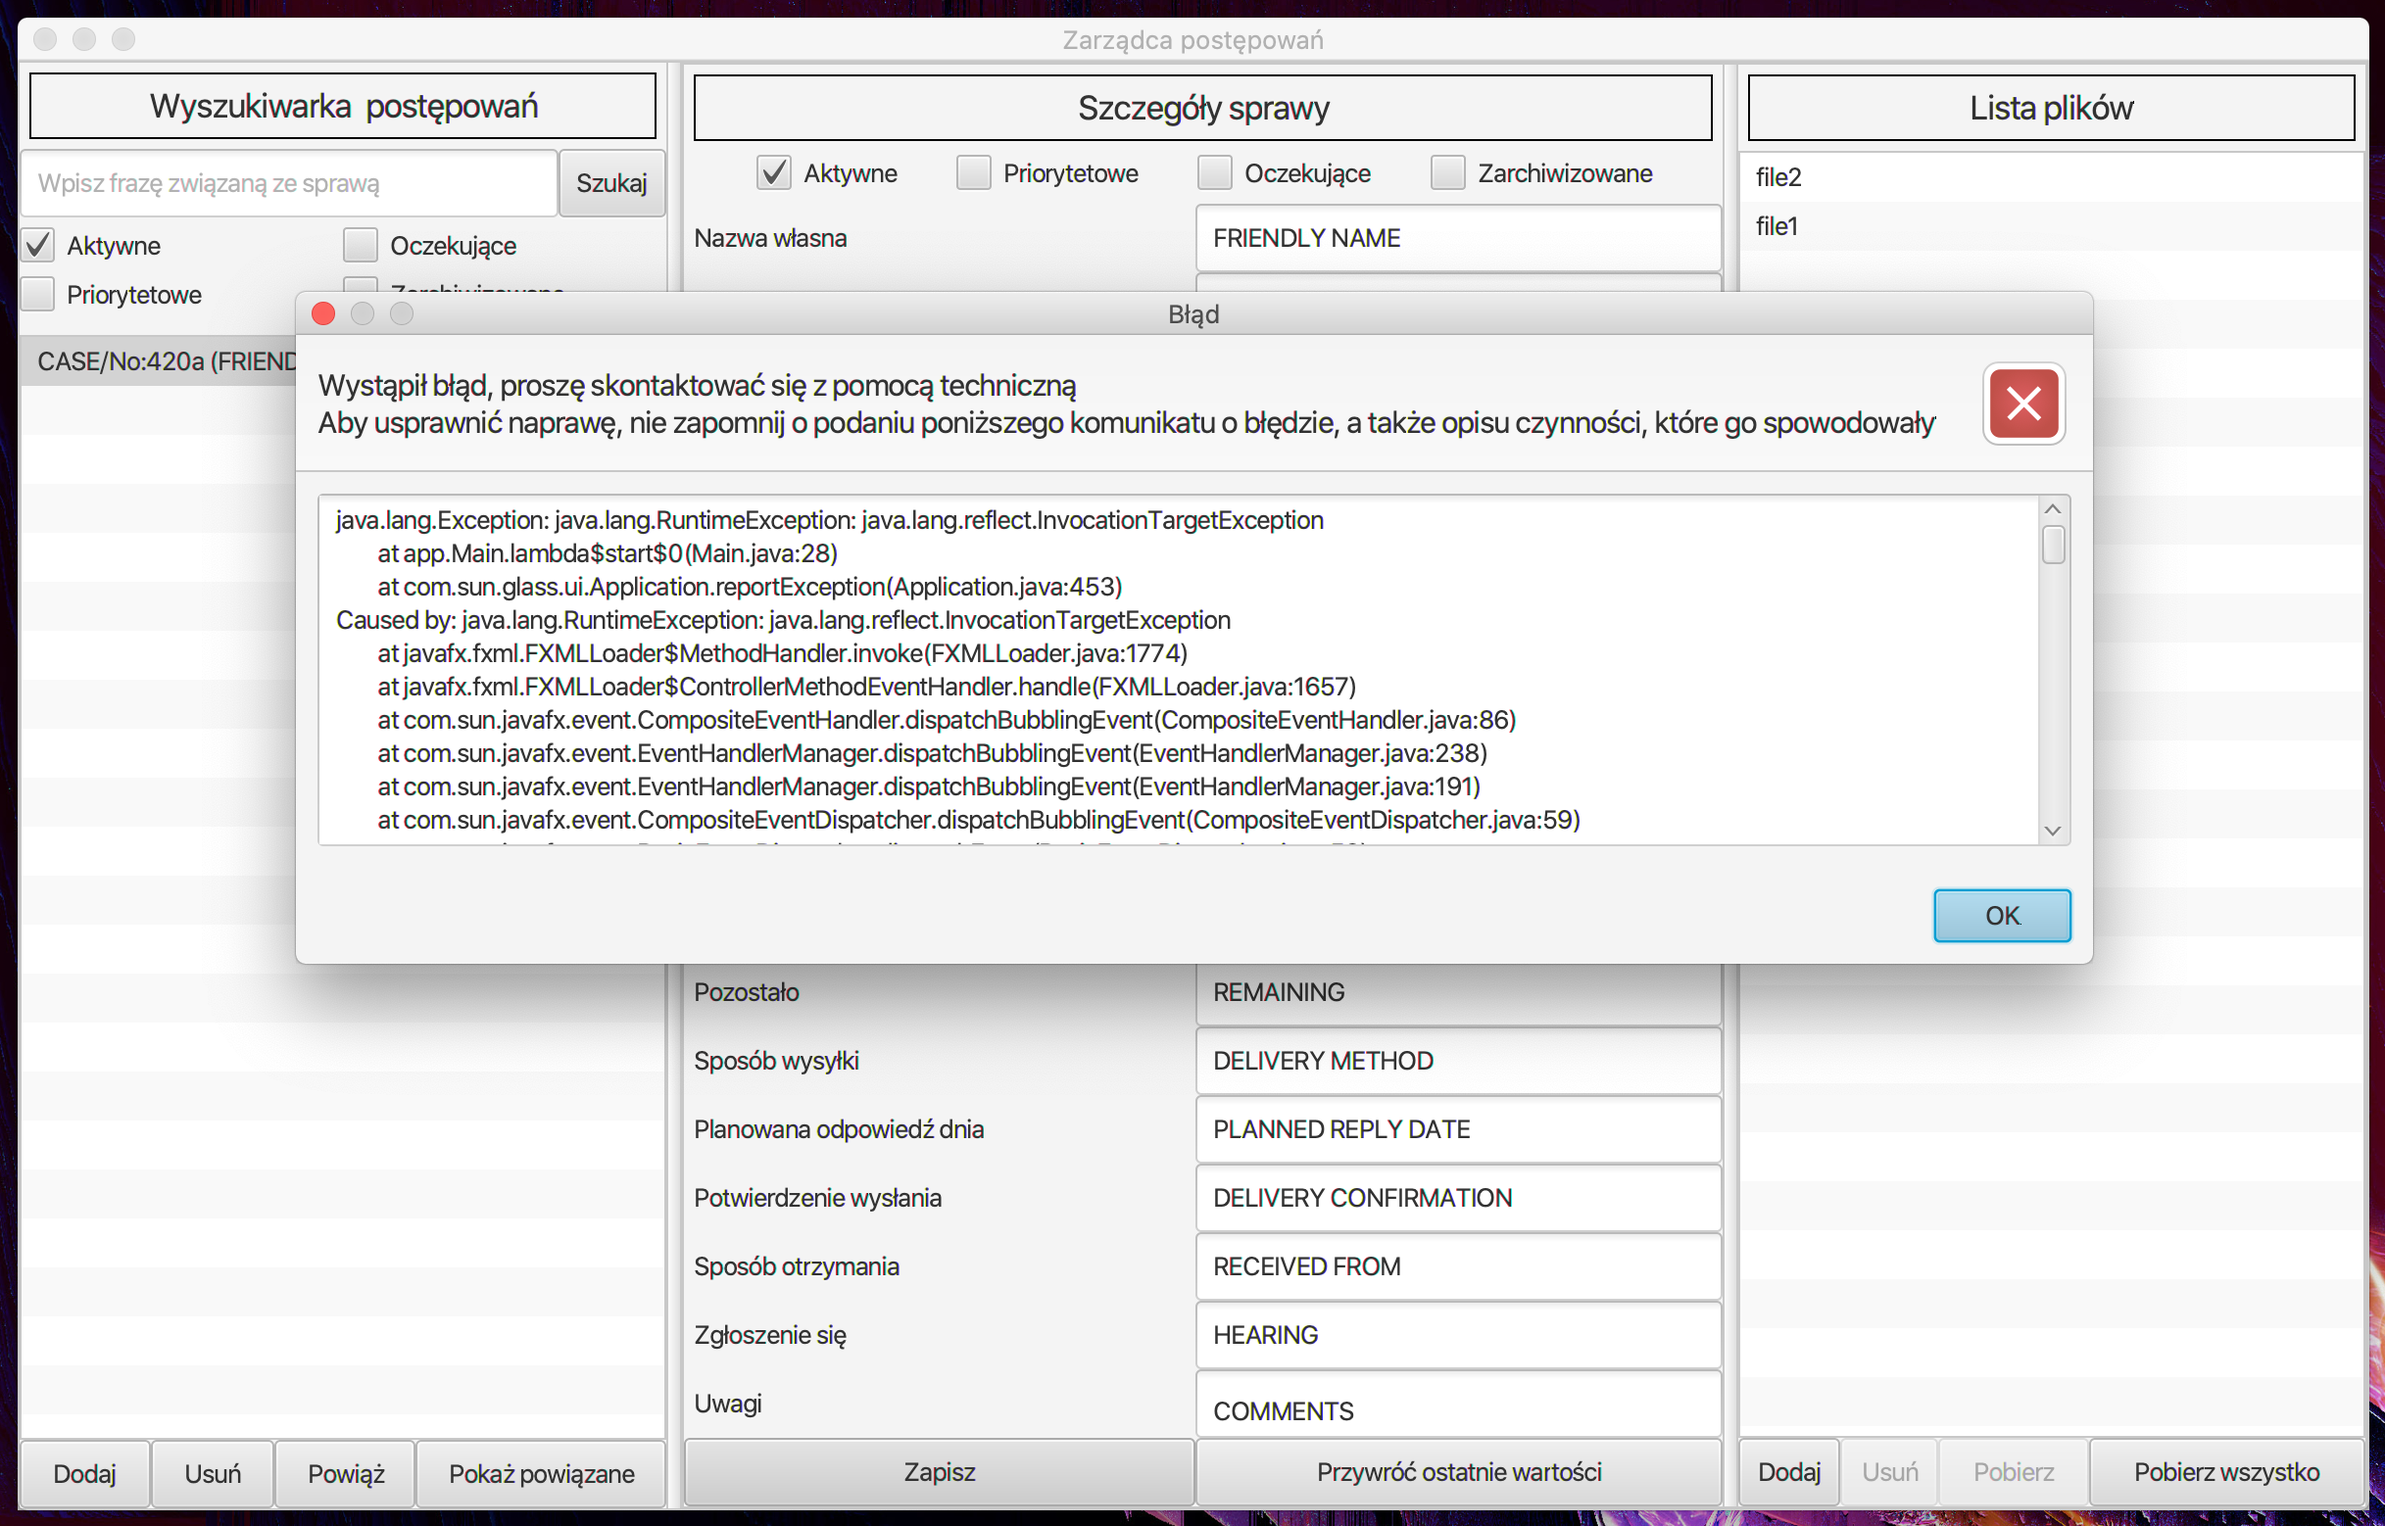
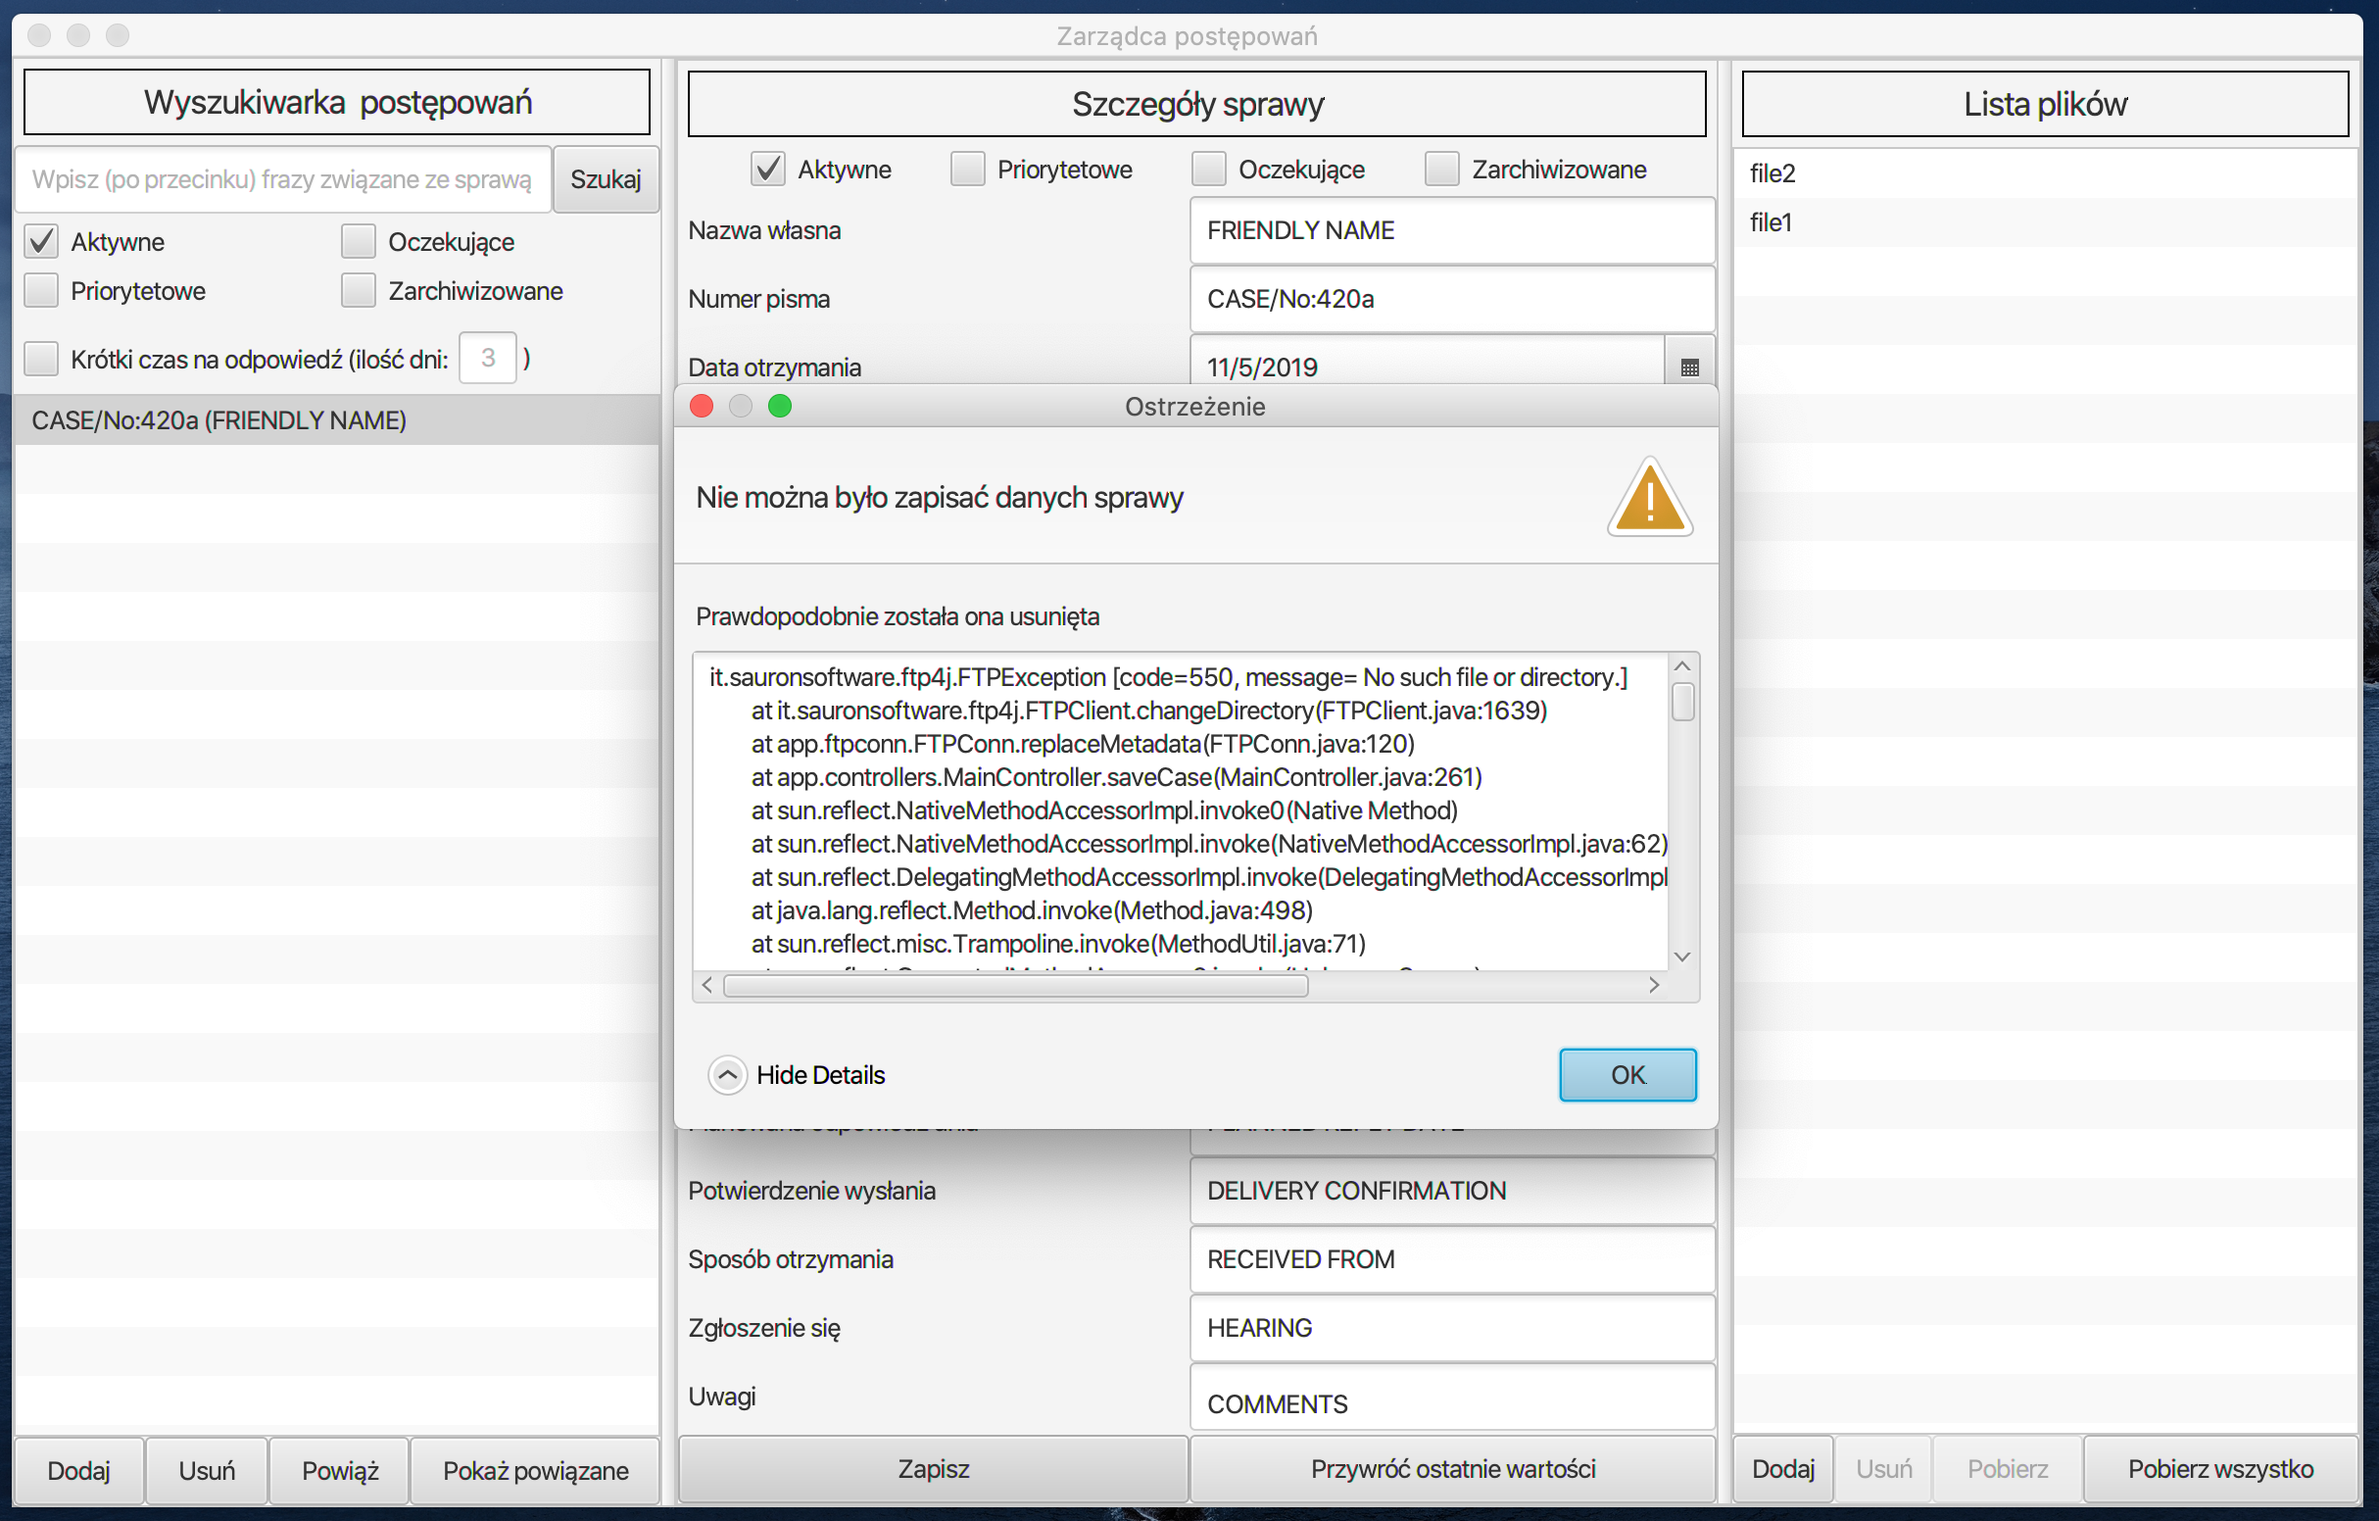
Minor bugfixes & added some functionality (more info in release description)

Changed region(s): [[0.0, 0.0, 1.0, 1.0]]

diff --git a/src/main/java/CaseOrganizer/MainController.java b/src/main/java/CaseOrganizer/MainController.java
@@ -8,6 +8,7 @@ import javafx.scene.control.CheckBox;
 import javafx.scene.control.DatePicker;
 import javafx.scene.control.ListView;
 import javafx.scene.control.TextField;
+import javafx.scene.control.TextFormatter;
 import javafx.stage.DirectoryChooser;
 import javafx.stage.FileChooser;
 import javafx.collections.FXCollections;
@@ -18,7 +19,12 @@ import java.io.File;
 import java.io.FileOutputStream;
 import java.time.ZoneId;
 import java.util.ArrayList;
+import java.util.Arrays;
+import java.util.Calendar;
+import java.util.Date;
 import java.util.List;
+import java.util.concurrent.TimeUnit;
+import java.util.function.UnaryOperator;
 import java.util.stream.Collectors;
 
 import app.dialogs.Dialogs;
@@ -39,6 +45,9 @@ public class MainController {
     @FXML private CheckBox archivedCheckBox;
     @FXML private CheckBox activeCheckBox;
     @FXML private CheckBox pendingCheckBox;
+
+    @FXML private CheckBox deadlineCheckBox;
+    @FXML private TextField deadlineTime;
 
     @FXML private ListView<BasicCase> caseList;
     @FXML private ListView<String> fileList;
@@ -100,6 +109,19 @@ public class MainController {
 
         letterNumber.setEditable(false);
 
+        UnaryOperator<TextFormatter.Change> filter = change -> {
+            String text = change.getText();
+            if (text.matches("[0-9]*")) {
+                return change;
+            } else {
+                return null;
+            }
+        };
+
+        TextFormatter<String> textFormatter = new TextFormatter<>(filter);
+        deadlineTime.setTextFormatter(textFormatter);
+        deadlineTime.setOnMouseClicked(e -> deadlineTime.selectAll());
+
         caseList.getSelectionModel().selectedItemProperty().addListener(new ChangeListener<BasicCase>() {
             @Override
             public void changed(ObservableValue<? extends BasicCase> observable, BasicCase oldValue, BasicCase newValue) {
@@ -118,6 +140,14 @@ public class MainController {
 
                     updateCaseInfo(new BasicCase());
                     emptyFileList();
+
+                    dateReceived.setValue(null);
+                    replyDeadline.setValue(null);
+
+                    activeCaseCheckBox.setSelected(false);
+                    priorityCaseCheckBox.setSelected(false);
+                    archivedCaseCheckBox.setSelected(false);
+                    pendingCaseCheckBox.setSelected(false);
 
                 } else {
                     deleteCaseButton.setDisable(false);
@@ -334,40 +364,112 @@ public class MainController {
     }
 
 
+    private static long getDifferenceDays (Date d1, Date d2) {
+        long diff = d2.getTime() - d1.getTime();
+        return TimeUnit.DAYS.convert(diff, TimeUnit.MILLISECONDS);
+    }
+
+    private boolean checkTimeDifference (BasicCase c) {
+        Date caseDate = c.getReplyDeadline();
+        Date currentDate = Calendar.getInstance().getTime();
+
+        String dtime = deadlineTime.getText();
+        int days;
+
+        if (dtime.equals(""))
+            days = 3;
+        else
+            days = Integer.parseInt(dtime);
+
+        return getDifferenceDays(currentDate, caseDate) < days;
+    }
+
+    private boolean checkNotContains (BasicCase c, List<BasicCase> newCases) {
+        String cn = c.getLetterNumber();
+
+        for (BasicCase bc : newCases) {
+            if (bc.getLetterNumber().equals(cn)) {
+                return false;
+            }
+        }
+
+        return true;
+    }
+
 
     @FXML
     public void search () throws Exception {
         try {
-            String query = searchBar.getText().trim().toLowerCase();
+            boolean listAll = false;
+
             List<String> dirs = conn.listDirs(null);
             List<BasicCase> newCases = new ArrayList<BasicCase>();
+            String queriesStr = searchBar.getText().trim().toLowerCase();
+
+            if (queriesStr.equals(""))
+                listAll = true;
+
+            List<String> queries = Arrays.asList(queriesStr.split(","));
 
             for (String d : dirs) {
                 BasicCase c = conn.readMetadata(d);
 
-                if (c.getFriendlyName().toLowerCase()              .contains(query) ||
-                    c.getLetterNumber().toLowerCase()              .contains(query) ||
-                    c.getCaseNumber().toLowerCase()                .contains(query) ||
-                    c.getCompany().toLowerCase()                   .contains(query) ||
-                    c.getFrom().toLowerCase()                      .contains(query) ||
-                    c.getConcerning().toLowerCase()                .contains(query) ||
-                    c.getComments().toLowerCase()                  .contains(query) ||
-                    c.getCorrespondenceDescription().toLowerCase() .contains(query) ||
-                    c.getDeliveryMethod().toLowerCase()            .contains(query) ||
-                    c.getReceivedFrom().toLowerCase()              .contains(query) )
+                boolean matchesAll = true;
 
-                    {
-                        if (activeCheckBox.isSelected() && !priorityCheckBox.isSelected() && !pendingCheckBox.isSelected()) {
-                            if (c.getIsActive())
-                                newCases.add(c);
+                for (String q : queries) {
+                    String query = q.trim();
+
+                    if (query.equals("") && listAll == false)
+                        continue;
+
+                    if (c.getFriendlyName().toLowerCase()              .contains(query) ||
+                        c.getLetterNumber().toLowerCase()              .contains(query) ||
+                        c.getCompany().toLowerCase()                   .contains(query) ||
+                        c.getFrom().toLowerCase()                      .contains(query) ||
+                        c.getConcerning().toLowerCase()                .contains(query) ||
+                        c.getInspectionPeriod().toLowerCase()          .contains(query) ||
+                        c.getPlannedEndDate().toLowerCase()            .contains(query) ||
+                        c.getCaseNumber().toLowerCase()                .contains(query) ||
+                        c.getCorrespondenceDescription().toLowerCase() .contains(query) ||
+                        c.getRemaining().toLowerCase()                 .contains(query) ||
+                        c.getDeliveryMethod().toLowerCase()            .contains(query) ||
+                        c.getPlannedReplyDate().toLowerCase()          .contains(query) ||
+                        c.getDeliveryConfirmation().toLowerCase()      .contains(query) ||
+                        c.getReceivedFrom().toLowerCase()              .contains(query) ||
+                        c.getHearing().toLowerCase()                   .contains(query) ||
+                        c.getComments().toLowerCase()                  .contains(query) )
+
+                        {
+                            if (activeCheckBox.isSelected() &&!priorityCheckBox.isSelected() && !pendingCheckBox.isSelected()) {
+
+                                if (c.getIsActive()) {
+                                    if (deadlineCheckBox.isSelected() && checkTimeDifference(c) == false)
+                                        matchesAll = false;
+
+                                    if (checkNotContains(c, newCases) == false)
+                                        matchesAll = false;
+
+                                }
+                            }
+
+                            else if (c.getIsActive() == activeCheckBox.isSelected() && c.getIsArchived() == archivedCheckBox.isSelected() &&
+                                c.getIsPriority() == priorityCheckBox.isSelected() && c.getIsPending()  == pendingCheckBox.isSelected()) {
+
+                                if (deadlineCheckBox.isSelected() && checkTimeDifference(c) == false)
+                                    matchesAll = false;
+
+                                if (checkNotContains(c, newCases) == false)
+                                    matchesAll = false;
+                            }
                         }
 
-                        else
-                            if (c.getIsActive() == activeCheckBox.isSelected() && c.getIsArchived() == archivedCheckBox.isSelected() &&
-                                c.getIsPriority() == priorityCheckBox.isSelected() && c.getIsPending()  == pendingCheckBox.isSelected())
+                        else {
+                            matchesAll = false;
+                            break;
+                        }
+                }
 
-                                newCases.add(c);
-                    }
+                if (matchesAll) newCases.add(c);
             }
 
             cases.setAll(newCases);
@@ -380,7 +482,7 @@ public class MainController {
         catch (Exception e) {
             try {
                 conn.noop();
-                Dialogs.WarningDialog("Błąd wyszukiwania", "Utracono połączenie z serwerem", e);
+                Dialogs.WarningDialog("Błąd wyszukiwania", "Prawdopodobnie utracono połączenie z serwerem", e);
             } catch (Exception ignore) {
                 Dialogs.NoopFailedDialog();
             }
@@ -460,7 +562,7 @@ public class MainController {
                 if (c.getLetterNumber().equals(s))
                     Dialogs.WarningDialog("Nie można było powiązać sprawy", "Powiązywanie sprawy z sobą samą jest niedozwolone", null);
 
-                else if (allCases.stream().filter(x -> x.toString().equals(s)).collect(Collectors.toList()).size() >= 1) {
+                else if (allCases.stream().filter(x -> x.getLetterNumber().equals(s)).collect(Collectors.toList()).size() >= 1) {
                     List<String> links = c.getLinks();
                     links.add(s);
                     c.setLinks(links);
@@ -494,8 +596,12 @@ public class MainController {
             if (links.contains(bc.toString()))
                 filteredLinks.add(bc);
 
-        cases.setAll(filteredLinks);
-        caseList.setItems(cases);
+        if (filteredLinks.size() == 0) {
+            Dialogs.WarningDialog("Nie znaleziono powiązanych spraw", "Upewnij się, że wybrana pozycja jest poprawna", null);
+        } else {
+            cases.setAll(filteredLinks);
+            caseList.setItems(cases);
+        }
     }
 
 
@@ -574,6 +680,8 @@ public class MainController {
             FileOutputStream fos = new FileOutputStream(selectedFile);
             baos.writeTo(fos);
             Dialogs.InfoDialog("Plik pobrany pomyślnie", null);
+            baos.close();
+            fos.close();
         }
         catch (Exception e) {
             try {
@@ -605,6 +713,8 @@ public class MainController {
                 ByteArrayOutputStream baos = conn.downloadFile(c.getLetterNumber(), s);
                 FileOutputStream fos = new FileOutputStream(new File(selectedDirectory.toString() + "/" + file));
                 baos.writeTo(fos);
+                baos.close();
+                fos.close();
             }
             Dialogs.InfoDialog("Pliki pobrano pomyślnie", null);
         }

diff --git a/src/main/java/CaseOrganizer/FTPConn.java b/src/main/java/CaseOrganizer/FTPConn.java
@@ -106,7 +106,12 @@ public class FTPConn {
             client.deleteFile("meta.xml");
         } catch (FTPException ignore) { }
 
-        client.upload("meta.xml", new ByteArrayInputStream(metaFile.toByteArray()), 0, 0, null);
+        ByteArrayInputStream bais = new ByteArrayInputStream(metaFile.toByteArray());
+
+        client.upload("meta.xml", bais, 0, 0, null);
+
+        metaFile.close();
+        bais.close();
     }
 
     public void replaceMetadata (BasicCase caseObj) throws Exception {
@@ -155,7 +160,14 @@ public class FTPConn {
 
             JAXBContext jaxbContext = JAXBContext.newInstance(BasicCase.class);
             Unmarshaller jaxbUnmarshaller = jaxbContext.createUnmarshaller();
-            return (BasicCase) jaxbUnmarshaller.unmarshal(new ByteArrayInputStream(metaFile.toByteArray()));
+
+            ByteArrayInputStream bais = new ByteArrayInputStream(metaFile.toByteArray());
+            BasicCase c = (BasicCase) jaxbUnmarshaller.unmarshal(bais);
+
+            metaFile.close();
+            bais.close();
+
+            return c;
         }
         catch (Exception e) {
             throw e;
@@ -210,6 +222,7 @@ public class FTPConn {
             client.deleteFile(ftpDir + getMD5(dir) + "/" + f.getName());
         } catch (Exception ignore) { }
         client.upload(ftpDir + getMD5(dir) + "/" + f.getName(), targetStream, 0, 0, null);
+        targetStream.close();
     }
 
     public ByteArrayOutputStream downloadFile (String dir, String filename) throws Exception {
